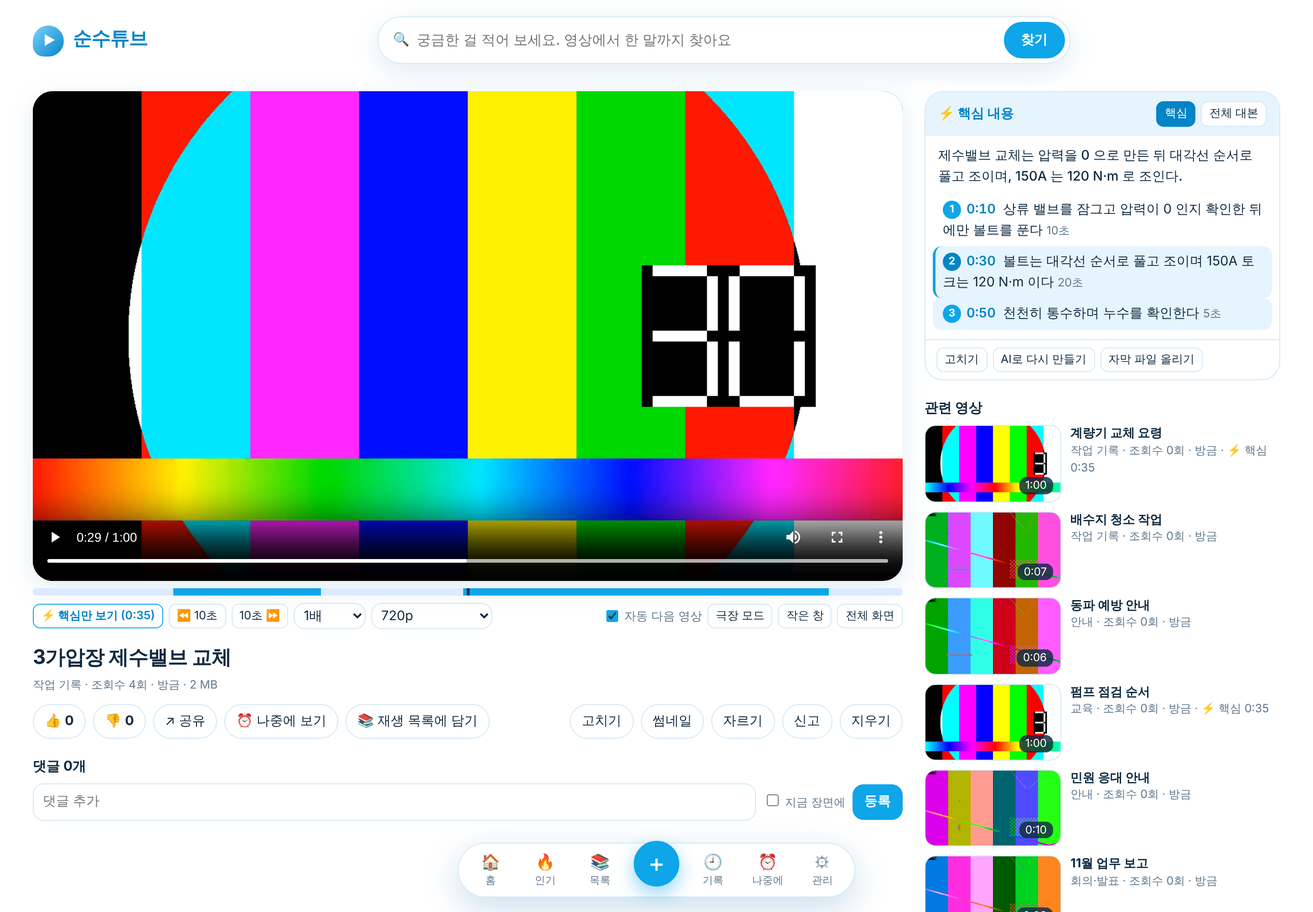
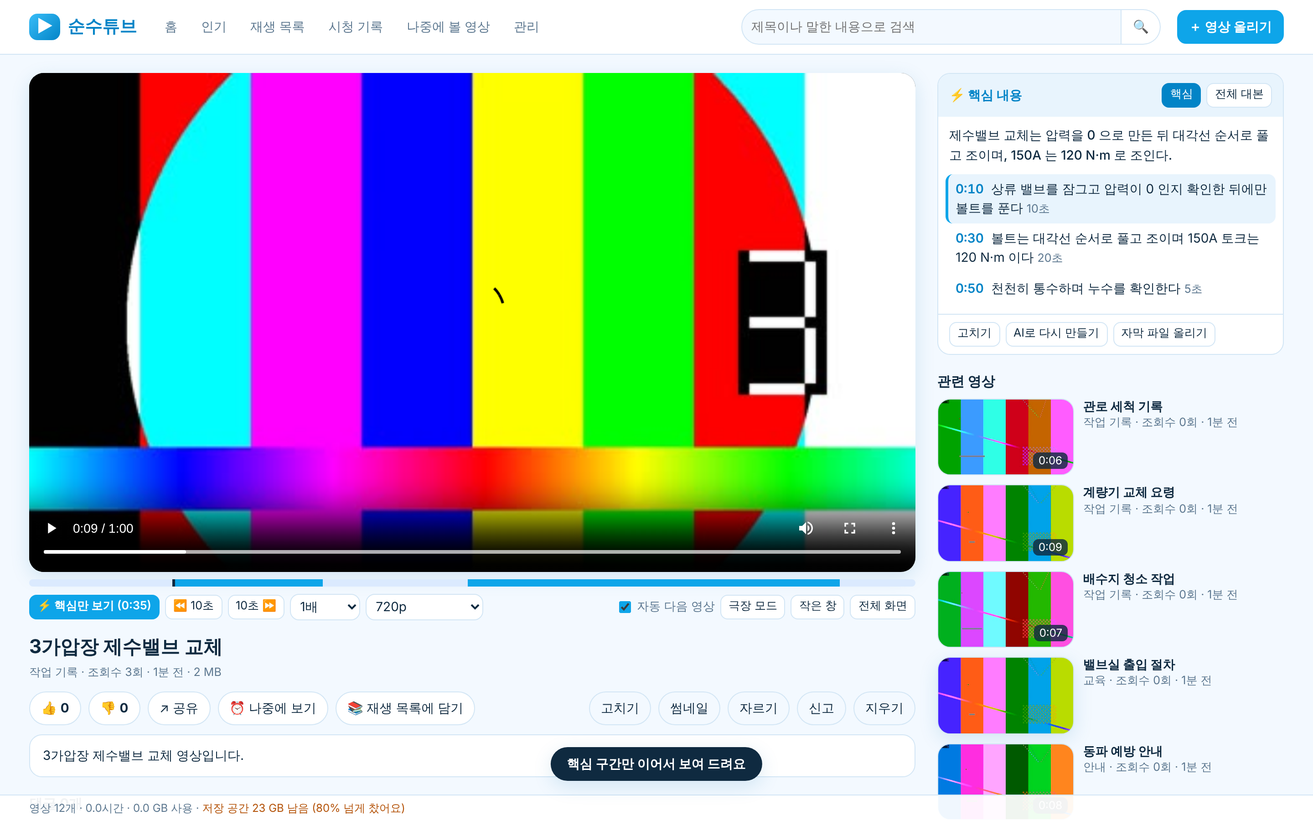
순수TV: 가로 끝까지 채우는 16:9 큰 화면, 자막 같은 설명, 작은 줄 목록 (#5)
* style.css 를 이전 상태(밝은 화면, 큰 배너와 가로 줄)로 되돌림

Claude-Session: https://claude.ai/code/session_01WFWMCxUpiuvt1NbcY57aW6

* 순수TV 로 이름 변경, 홈 큰 화면을 가로 끝까지 16:9 로, 설명은 화면 위 자막처럼, 아래 줄 카드는 작게

Claude-Session: https://claude.ai/code/session_01WFWMCxUpiuvt1NbcY57aW6

---------

diff --git a/module/web/style.css b/module/web/style.css
@@ -1,84 +1,71 @@
-/* 순수튜브: "먼저 읽고, 필요한 장면만 본다". 하늘색과 하얀색. 메뉴는 아래에 떠 있는 둥근 띠. */
-:root{--bg:#f5fbff;--panel:#fff;--soft:#e6f4fe;--line:#d6e8f6;--text:#0f2a40;--muted:#60798f;--accent:#0ea5e9;--accent2:#0284c7;--bad:#dc2626;--shadow:0 8px 28px rgba(14,116,170,.13)}
-*{box-sizing:border-box}body{margin:0;color:var(--text);font:14.5px/1.55 system-ui,"Malgun Gothic",sans-serif;background:var(--bg) radial-gradient(900px 500px at 8% -10%,#d9f0ff 0,transparent 60%) fixed,var(--bg) radial-gradient(700px 500px at 100% 0,#e9f7ff 0,transparent 55%) fixed}
-a{color:inherit;text-decoration:none}button,input,select,textarea{font:inherit;color:inherit}i,em{font-style:normal}
-button,a.btn{background:#fff;border:1px solid var(--line);border-radius:12px;padding:7px 12px;cursor:pointer;display:inline-block}button:hover,a.btn:hover{border-color:var(--accent);color:var(--accent2)}
+/* 순수TV: 하늘색과 하얀색의 밝은 화면. 홈은 큰 배너와 가로 줄 목록. */
+:root{--bg:#f3f9ff;--panel:#fff;--soft:#e8f4fd;--line:#d3e6f5;--text:#0f2a40;--muted:#5d7890;--accent:#0ea5e9;--accent2:#0284c7;--bad:#dc2626;--shadow:0 6px 22px rgba(14,116,170,.14)}
+*{box-sizing:border-box}body{margin:0;background:var(--bg);color:var(--text);font:14px/1.5 system-ui,"Malgun Gothic",sans-serif}
+a{color:inherit;text-decoration:none}button,input,select,textarea{font:inherit;color:inherit}
+button,a.btn{background:#fff;border:1px solid var(--line);border-radius:10px;padding:7px 12px;cursor:pointer;display:inline-block}button:hover,a.btn:hover{border-color:var(--accent);color:var(--accent2)}
 button.primary,a.btn.primary{background:var(--accent);border-color:var(--accent);color:#fff;font-weight:600}button.primary:hover,a.btn.primary:hover{background:var(--accent2);color:#fff}
 button.ghost{background:transparent}button:disabled{opacity:.5;cursor:default}
 button.on{background:var(--accent2);color:#fff;border-color:var(--accent2)}button.small{padding:3px 8px;font-size:12.5px;border-radius:8px}
-input,select,textarea{background:#fff;border:1px solid var(--line);border-radius:12px;padding:8px 10px;width:100%}input:focus,select:focus,textarea:focus{outline:2px solid #bae6fd;border-color:var(--accent)}input[type=checkbox]{width:auto;accent-color:var(--accent)}
-mark{background:#fde68a;color:inherit;border-radius:3px;padding:0 1px}
+input,select,textarea{background:#fff;border:1px solid var(--line);border-radius:10px;padding:8px 10px;width:100%}input:focus,select:focus,textarea:focus{outline:2px solid #bae6fd;border-color:var(--accent)}input[type=checkbox]{width:auto;accent-color:var(--accent)}
 
-/* 위: 로고와 큰 검색창 */
-.top{display:flex;gap:10px 22px;align-items:center;flex-wrap:wrap;padding:18px 36px 6px;max-width:1500px;margin:0 auto}
-.logo{font-size:21px;font-weight:800;white-space:nowrap;color:var(--accent2);letter-spacing:-.5px}.logo .mark{display:inline-grid;place-items:center;width:34px;height:34px;background:linear-gradient(135deg,#7dd3fc,#0284c7);color:#fff;border-radius:50% 50% 50% 12px;margin-right:6px;font-size:14px;padding-left:2px}
-.search{flex:1;display:flex;align-items:center;gap:8px;min-width:240px;max-width:760px;margin:0 auto;background:#fff;border:1px solid var(--line);border-radius:28px;padding:5px 5px 5px 16px;box-shadow:var(--shadow)}
-.search input{border:0;padding:8px 0;font-size:15.5px;background:transparent}.search input:focus{outline:0}.search:focus-within{border-color:var(--accent)}.search button{border-radius:22px;padding:8px 18px;white-space:nowrap;flex:none}
-main{padding:18px 36px 120px;max-width:1500px;margin:0 auto}@media(max-width:800px){.top{padding:12px 14px 4px}main{padding:12px 14px 120px}}
-h1.page{font-size:22px;margin:6px 0 14px}h1.page .meta{font-weight:400;margin-left:8px}.sub{color:var(--muted);margin:-8px 0 14px}.meta{color:var(--muted);font-size:12.5px}
-.chips{display:flex;gap:8px;flex-wrap:wrap;margin:6px 0 18px;align-items:center}.chips button{border-radius:18px;padding:5px 14px}.chips button[aria-pressed=true]{background:var(--text);color:#fff;border-color:var(--text)}.chips .sp{flex:1}.chips select{width:auto;border-radius:18px;padding:5px 10px}
-.seg{display:inline-flex;border:1px solid var(--line);border-radius:18px;overflow:hidden;background:#fff}.seg button{border:0;border-radius:0!important;padding:5px 12px}
+/* 위쪽 줄 */
+.top{position:sticky;top:0;z-index:6;display:flex;gap:8px 18px;align-items:center;flex-wrap:wrap;padding:10px 32px;background:rgba(255,255,255,.94);backdrop-filter:blur(8px);border-bottom:1px solid var(--line)}
+.logo{font-size:19px;font-weight:800;white-space:nowrap;color:var(--accent2)}.logo .mark{display:inline-block;background:linear-gradient(135deg,#38bdf8,#0284c7);color:#fff;border-radius:9px;padding:0 8px;margin-right:4px}
+.nav{display:flex;gap:2px;overflow-x:auto;scrollbar-width:none}.nav a{padding:7px 12px;border-radius:18px;white-space:nowrap;color:var(--muted);font-weight:500}.nav a:hover{background:var(--soft);color:var(--text)}.nav a.on{background:var(--soft);color:var(--accent2);font-weight:700}
+.search{flex:1;display:flex;min-width:200px;max-width:460px;margin-left:auto}.search input{border-radius:20px 0 0 20px;background:var(--bg)}.search button{border-radius:0 20px 20px 0;border-left:0}
+@media(max-width:900px){.top{padding:8px 14px}.nav{order:5;width:100%}.search{min-width:120px}}
+main{padding:20px 32px 70px;max-width:1800px;margin:0 auto}@media(max-width:900px){main{padding:14px 14px 70px}}
+h1.page{font-size:22px;margin:0 0 14px}.sub{color:var(--muted);margin:-8px 0 14px}.meta{color:var(--muted);font-size:12.5px}
+.chips{display:flex;gap:8px;flex-wrap:wrap;margin-bottom:16px;align-items:center}.chips button{border-radius:18px;padding:5px 14px}.chips button[aria-pressed=true]{background:var(--accent2);color:#fff;border-color:var(--accent2)}.chips .sp{flex:1}.chips select{width:auto}
 
-/* 아래에 떠 있는 메뉴 */
-.dock{position:fixed;left:50%;bottom:16px;transform:translateX(-50%);z-index:8;display:flex;gap:2px;align-items:center;padding:6px;background:rgba(255,255,255,.92);backdrop-filter:blur(10px);border:1px solid var(--line);border-radius:30px;box-shadow:0 12px 36px rgba(14,116,170,.22);max-width:calc(100vw - 16px)}
-.dock a{display:flex;flex-direction:column;align-items:center;min-width:58px;padding:5px 8px;border-radius:22px;font-size:11.5px;color:var(--muted);line-height:1.25}.dock a i{font-size:17px}.dock a:hover{background:var(--soft);color:var(--text)}.dock a.on{background:var(--soft);color:var(--accent2);font-weight:700}
-.dock #uploadBtn{width:50px;height:50px;border-radius:50%;font-size:24px;padding:0;margin:-14px 6px 0;box-shadow:0 8px 20px rgba(14,165,233,.45);line-height:1}
-@media(max-width:480px){.dock a{min-width:44px;padding:5px 3px}}
-body.theater .dock{opacity:.35}body.theater .dock:hover{opacity:1}
+/* 홈: 가로 끝까지 채우는 16:9 큰 화면. 설명은 화면 오른쪽 위에 자막처럼 */
+.hero{position:relative;width:100vw;margin:-20px 0 14px calc(50% - 50vw);aspect-ratio:16/9;background:#04121d;overflow:hidden}
+.hero .scr{position:absolute;inset:0;background:center/cover no-repeat;display:block}.hero video{width:100%;height:100%;max-height:none;object-fit:cover;border-radius:0;box-shadow:none;background:transparent}
+.hero:after{content:"";position:absolute;inset:0;pointer-events:none;background:linear-gradient(270deg,rgba(2,18,30,.72) 0,rgba(2,18,30,.35) 34%,transparent 62%),linear-gradient(0deg,rgba(2,18,30,.45) 0,transparent 30%)}
+.hero .cap{position:absolute;z-index:2;right:4vw;bottom:7%;width:min(40vw,620px);text-align:right;color:#fff;text-shadow:0 2px 4px rgba(0,0,0,.85),0 0 18px rgba(0,0,0,.6);pointer-events:none}
+.hero .cap>*{pointer-events:auto}.hero .kicker{display:inline-block;color:#7dd3fc;font-size:clamp(11px,1vw,14px);font-weight:700;letter-spacing:.5px}
+.hero h1{font-size:clamp(20px,3.4vw,54px);line-height:1.2;margin:.2em 0 .25em;letter-spacing:-1px}.hero p{font-size:clamp(12.5px,1.25vw,19px);line-height:1.55;margin:0 0 .4em;display:-webkit-box;-webkit-line-clamp:4;-webkit-box-orient:vertical;overflow:hidden}
+.hero .info{font-size:clamp(11px,.9vw,13.5px);opacity:.85}.hero .btns{display:flex;gap:10px;flex-wrap:wrap;justify-content:flex-end;margin-top:1.1em;text-shadow:none}
+.hero .btn{padding:.6em 1.4em;border-radius:26px;font-size:clamp(12.5px,1.05vw,16px);font-weight:600;border-color:transparent;color:var(--text)}.hero .btn.primary{color:#fff}.hero .btn.on{background:var(--accent2);color:#fff}
+@media(max-width:700px){.hero .cap{width:62vw;right:3vw;bottom:5%}.hero p,.hero .info{display:none}.hero .btn:not(.primary){display:none}}
+@media(max-width:900px){.hero{margin-top:-14px}}
 
-/* 홈: 오늘의 영상 */
-.spot{display:grid;grid-template-columns:minmax(0,52%) minmax(0,1fr);gap:30px;align-items:center;background:var(--panel);border:1px solid var(--line);border-radius:28px;padding:18px;margin:8px 0 18px;box-shadow:var(--shadow)}
-.spot .thumb{border-radius:20px;border:0}.spot .play{width:66px;height:66px;border-radius:50%;background:rgba(255,255,255,.93);color:var(--accent2);font-size:25px;display:grid;place-items:center;padding-left:5px;box-shadow:var(--shadow);transition:transform .15s}.spot .thumb:hover .play{transform:scale(1.1)}
-.spot .txt{padding:6px 14px 6px 0}.kicker{display:inline-block;background:var(--soft);color:var(--accent2);border-radius:14px;padding:2px 12px;font-size:12.5px;font-weight:700}
-.spot h1{font-size:clamp(21px,2.4vw,31px);line-height:1.25;margin:10px 0 6px;letter-spacing:-.5px}.spot .sum{font-size:15px;margin:0 0 10px;color:#33526b}
-.btns{display:flex;gap:8px;flex-wrap:wrap;margin-top:14px}.btns .btn{padding:9px 18px;border-radius:22px;font-weight:600}
-@media(max-width:900px){.spot{grid-template-columns:1fr;gap:12px}.spot .txt{padding:0 6px 6px}}
-/* 핵심 문장(번호 + 내용 + 시간): 누르면 그 장면부터 */
-.step{display:grid;grid-template-columns:22px 1fr auto;gap:8px;align-items:start;padding:5px 6px;border-radius:10px;font-size:13.5px;line-height:1.45}.step:hover{background:var(--soft)}
-.step i,.pt i{display:inline-grid;place-items:center;width:20px;height:20px;border-radius:50%;background:var(--accent);color:#fff;font-size:11.5px;font-weight:700;margin-top:1px}
-.step em{color:var(--accent2);font-size:12px;font-weight:600;font-variant-numeric:tabular-nums}.flow{position:relative}.flow:before{content:"";position:absolute;left:15.5px;top:16px;bottom:16px;width:1.5px;background:#bfe3f8}.flow .step{position:relative}
-/* 이어 보기 */
-.cont{display:flex;gap:8px;align-items:center;overflow-x:auto;padding:2px 2px 10px;scrollbar-width:none}.cont b{white-space:nowrap;margin-right:4px}
-.cont a{display:flex;gap:8px;align-items:center;white-space:nowrap;background:#fff;border:1px solid var(--line);border-radius:20px;padding:5px 12px 5px 6px}.cont a:hover{border-color:var(--accent)}.cont em{color:var(--muted);font-size:12px}
-.ring{width:22px;height:22px;border-radius:50%;background:conic-gradient(var(--accent) calc(var(--p)*1%),#dbeafe 0);-webkit-mask:radial-gradient(circle,transparent 6px,#000 7px);mask:radial-gradient(circle,transparent 6px,#000 7px)}
+/* 홈: 가로 줄(작게) */
+.shelf{margin-bottom:2px}.shelf h2{font-size:15px;margin:0}.shelf h2 a{cursor:pointer}.shelf h2 span{font-size:12px;font-weight:500;color:var(--accent2);opacity:0;transition:opacity .15s;margin-left:6px}.shelf:hover h2 span{opacity:1}
+.rail{position:relative}.rowlist{display:flex;gap:10px;overflow-x:auto;scroll-snap-type:x proximity;padding:8px 4px 12px;scrollbar-width:none}.rowlist::-webkit-scrollbar,.nav::-webkit-scrollbar{display:none}
+.rowlist .card{flex:0 0 clamp(132px,11vw,176px);min-width:0;scroll-snap-align:start}.rowlist .card h3{font-size:12.5px;margin:5px 0 0;-webkit-line-clamp:1}.rowlist .card .meta{font-size:11px;white-space:nowrap;overflow:hidden;text-overflow:ellipsis}.rowlist .thumb{border-radius:9px}.rowlist .thumb .dur{font-size:10.5px;right:4px;bottom:4px;padding:0 4px}
+.arrow{position:absolute;top:calc(50% - 34px);z-index:3;width:34px;height:34px;border-radius:50%;padding:0;font-size:19px;line-height:1;background:#fff;box-shadow:var(--shadow);opacity:0;transition:opacity .15s}.rail:hover .arrow{opacity:1}.arrow.l{left:-12px}.arrow.r{right:-12px}.arrow[hidden]{display:none}
+.hitline{font-size:12.5px;color:var(--muted);margin-top:3px;display:-webkit-box;-webkit-line-clamp:2;-webkit-box-orient:vertical;overflow:hidden}.hitline b{color:var(--accent2)}
 
-/* 읽는 카드: 높이가 달라도 자연스럽게 흐르는 단 */
-.flowgrid{columns:330px;column-gap:18px}
-.rc{break-inside:avoid;background:var(--panel);border:1px solid var(--line);border-radius:22px;overflow:hidden;margin:0 0 18px;transition:box-shadow .18s,transform .18s}.rc:hover{box-shadow:var(--shadow);transform:translateY(-3px)}
-.rc .thumb{border-radius:0;border:0}.rcbody{padding:12px 14px 12px}.rc h3{margin:0 0 4px;font-size:16px;line-height:1.35;letter-spacing:-.2px}.rc h3:hover{color:var(--accent2)}
-.rc .sum{margin:0 0 8px;color:#3b5870;font-size:13.5px;display:-webkit-box;-webkit-line-clamp:3;-webkit-box-orient:vertical;overflow:hidden}.rc .meta{margin-top:8px}.rc .step{margin:0 -6px}
-.corelink{color:var(--accent2);font-weight:700}.corelink:hover{text-decoration:underline}
-.mini{position:relative;height:5px;background:#e3f1fb}.mini b{position:absolute;top:0;bottom:0;background:var(--accent)}
-.hits{background:var(--bg);border-radius:12px;padding:8px 10px;font-size:13px}.hits b{display:block;font-size:12px;color:var(--muted);margin-bottom:2px}.hit{display:grid;grid-template-columns:auto 1fr;gap:8px;padding:3px 0}.hit:hover span{color:var(--accent2)}.hit em{color:var(--accent2);font-weight:600;font-variant-numeric:tabular-nums}
-
-/* 그림 보기 · 작은 카드 */
+/* 카드 */
 .grid{display:grid;grid-template-columns:repeat(auto-fill,minmax(240px,1fr));gap:22px 16px}
-.card{display:block;position:relative;transition:transform .18s}.grid .card:hover{transform:translateY(-3px)}
-.thumb{position:relative;aspect-ratio:16/9;background:#d6ebf9 center/cover no-repeat;border-radius:16px;overflow:hidden;border:1px solid var(--line);display:grid;place-items:center;color:var(--muted)}
-.thumb .dur,.thumb .badge{position:absolute;right:8px;bottom:8px;background:rgba(15,42,64,.82);border-radius:8px;padding:0 7px;font-size:12px;color:#fff}.thumb .badge{left:8px;right:auto;top:8px;bottom:auto;background:var(--accent2)}.thumb .state{font-size:13px;padding:0 10px;text-align:center}
+.card{display:block;position:relative;transition:transform .18s}.rowlist .card:hover,.grid .card:hover{transform:translateY(-4px) scale(1.04);z-index:2}
+.thumb{position:relative;aspect-ratio:16/9;background:#d6ebf9 center/cover no-repeat;border-radius:14px;overflow:hidden;border:1px solid var(--line);display:grid;place-items:center;color:var(--muted);transition:box-shadow .18s}.card:hover .thumb{box-shadow:var(--shadow)}
+.thumb .dur,.thumb .badge{position:absolute;right:6px;bottom:6px;background:rgba(15,42,64,.82);border-radius:6px;padding:0 6px;font-size:12px;color:#fff}.thumb .badge{left:6px;right:auto;top:6px;bottom:auto;background:var(--accent2)}.thumb .state{font-size:13px;padding:0 10px;text-align:center}
 .thumb .prog{position:absolute;left:0;bottom:0;height:4px;background:var(--accent)}
+.thumb .sumov{position:absolute;inset:auto 0 0 0;padding:26px 10px 9px;background:linear-gradient(transparent,rgba(8,47,73,.9));color:#fff;font-size:12.5px;line-height:1.4;opacity:0;transition:opacity .18s;display:-webkit-box;-webkit-line-clamp:3;-webkit-box-orient:vertical;overflow:hidden}
+.card:hover .sumov{opacity:1}.card:hover .sumov~.prog,.card:hover .thumb:has(.sumov) .dur{opacity:0}.side .sumov{display:none}
 .card h3{margin:8px 0 2px;font-size:15px;line-height:1.35;display:-webkit-box;-webkit-line-clamp:2;-webkit-box-orient:vertical;overflow:hidden}
 .card .x{position:absolute;right:6px;top:6px;z-index:2;padding:0 7px;background:rgba(255,255,255,.92);border:0;border-radius:8px}
 .empty{text-align:center;color:var(--muted);padding:70px 0}.empty b{display:block;font-size:17px;color:var(--text);margin-bottom:6px}
 
 /* 보기 화면 */
-.watch{display:grid;grid-template-columns:minmax(0,1fr) 390px;gap:24px;margin-top:6px}@media(max-width:1100px){.watch{grid-template-columns:1fr}}body.theater .watch{grid-template-columns:1fr}
-video{width:100%;max-height:72vh;background:#04121d;border-radius:22px;display:block;box-shadow:var(--shadow)}body.theater video{max-height:84vh}
+.watch{display:grid;grid-template-columns:minmax(0,1fr) 380px;gap:24px}@media(max-width:1100px){.watch{grid-template-columns:1fr}}body.theater .watch{grid-template-columns:1fr}
+video{width:100%;max-height:72vh;background:#04121d;border-radius:16px;display:block;box-shadow:var(--shadow)}body.theater video{max-height:84vh}
 .pbar{display:flex;gap:6px;align-items:center;flex-wrap:wrap;margin-top:8px}.pbar select{width:auto;padding:4px 6px}.pbar .sp{flex:1}.pbar label{color:var(--muted);font-size:13px;display:flex;gap:4px;align-items:center}
-.watch h1{font-size:22px;margin:14px 0 4px;letter-spacing:-.4px}.actions{display:flex;gap:8px;align-items:center;flex-wrap:wrap;margin:10px 0}.actions .sp{flex:1}.actions button{border-radius:20px}
-.desc{background:var(--panel);border:1px solid var(--line);border-radius:16px;padding:12px 14px;white-space:pre-wrap;margin:10px 0}.tag{display:inline-block;color:var(--accent2);margin-right:8px}
+.watch h1{font-size:21px;margin:14px 0 4px}.actions{display:flex;gap:8px;align-items:center;flex-wrap:wrap;margin:10px 0}.actions .sp{flex:1}.actions button{border-radius:20px}
+.desc{background:var(--panel);border:1px solid var(--line);border-radius:14px;padding:12px 14px;white-space:pre-wrap;margin:10px 0}.tag{display:inline-block;color:var(--accent2);margin-right:8px}
 .comments h2,.side h2{font-size:15px;margin:18px 0 8px}.cform{display:flex;gap:8px;align-items:center}.cform input:not([type]){flex:1}
 .comment{padding:10px 0;border-bottom:1px solid var(--line)}.comment .when{color:var(--muted);font-size:12px}.comment .at{color:var(--accent2);cursor:pointer;margin-right:6px;font-weight:600}.comment .ops{margin-top:4px;display:flex;gap:6px}.comment.reply{margin-left:28px;border-bottom:0;padding:6px 0}
-.side .card{display:grid;grid-template-columns:150px 1fr;gap:10px;margin-bottom:10px}.side .card h3{margin:0;font-size:13.5px}.side .thumb{border-radius:12px}
-.plbox,.corebox{background:var(--panel);border:1px solid var(--line);border-radius:20px;margin-bottom:14px;overflow:hidden}.plbox header{padding:10px 14px;background:var(--soft)}.plbox .items{max-height:340px;overflow:auto;padding:6px}.plbox .card.cur{background:var(--soft);border-radius:10px}
+.side .card{display:grid;grid-template-columns:150px 1fr;gap:10px;margin-bottom:10px}.side .card h3{margin:0;font-size:13.5px}.side .card:hover{transform:none}
+.plbox,.corebox{background:var(--panel);border:1px solid var(--line);border-radius:14px;margin-bottom:14px;overflow:hidden}.plbox header{padding:10px 12px;background:var(--soft)}.plbox .items{max-height:340px;overflow:auto;padding:6px}.plbox .card.cur{background:var(--soft);border-radius:10px}
 .plrow{display:grid;grid-template-columns:28px 160px 1fr auto;gap:12px;align-items:center;padding:8px;border-bottom:1px solid var(--line)}.plrow .n{color:var(--muted);text-align:center}
 
 /* 핵심 보기 */
-.corebox:empty{display:none}.corebox header{display:flex;gap:6px;align-items:center;padding:10px 14px;background:var(--soft)}.corebox header b{flex:1;color:var(--accent2)}
-.corebox .body{padding:10px 8px;max-height:440px;overflow:auto;position:relative}.corebox .body>p,.corebox .body>label{margin:0 6px 8px;display:block}.corebox .sum{line-height:1.6;font-weight:500}
+.corebox:empty{display:none}.corebox header{display:flex;gap:6px;align-items:center;padding:10px 12px;background:var(--soft)}.corebox header b{flex:1;color:var(--accent2)}
+.corebox .body{padding:10px 8px;max-height:420px;overflow:auto;position:relative}.corebox .body>p,.corebox .body>label{margin:0 4px 8px;display:block}.corebox .sum{line-height:1.6;font-weight:500}
 .corebox footer{display:flex;gap:6px;flex-wrap:wrap;align-items:center;padding:8px 12px;border-top:1px solid var(--line)}.corebox footer:empty{display:none}.corebox footer .sp{flex:1}
-.pt,.ln{display:block;padding:6px 8px;border-radius:10px;cursor:pointer;border-left:3px solid transparent}.pt:hover,.ln:hover{background:var(--soft)}.pt.cur,.ln.cur{background:var(--soft);border-left-color:var(--accent)}
-.pt i{margin-right:6px;vertical-align:1px}.pt.cur i{background:var(--accent2)}
+.pt,.ln{display:block;padding:6px 8px;border-radius:8px;cursor:pointer;border-left:3px solid transparent}.pt:hover,.ln:hover{background:var(--soft)}.pt.cur,.ln.cur{background:var(--soft);border-left-color:var(--accent)}
 .pt .at,.ln .at{color:var(--accent2);margin-right:8px;font-weight:600;font-variant-numeric:tabular-nums}.ln{padding:3px 8px;color:var(--muted);font-size:13px}.ln.core{color:var(--text)}.ln[hidden]{display:none}
 .filebtn{display:inline-block;border:1px solid var(--line);border-radius:8px;padding:3px 8px;font-size:12.5px;cursor:pointer;background:#fff}.filebtn:hover{border-color:var(--accent);color:var(--accent2)}
 .strip{position:relative;height:8px;background:#dbeafe;border-radius:4px;margin-top:8px;cursor:pointer;overflow:hidden}.strip[hidden]{display:none}.strip b{position:absolute;top:0;bottom:0;background:var(--accent)}.strip i{position:absolute;top:0;bottom:0;width:3px;background:var(--text)}
@@ -86,16 +73,16 @@ video{width:100%;max-height:72vh;background:#04121d;border-radius:22px;display:b
 #coreBtn{border-color:var(--accent);color:var(--accent2);font-weight:600}#coreBtn.on{background:var(--accent);border-color:var(--accent);color:#fff}
 
 /* 창 · 올리기 */
-dialog{background:var(--panel);color:var(--text);border:1px solid var(--line);border-radius:22px;padding:22px;width:min(560px,94vw);max-height:90vh;overflow:auto;box-shadow:0 20px 60px rgba(15,42,64,.25)}dialog::backdrop{background:rgba(15,42,64,.35)}
+dialog{background:var(--panel);color:var(--text);border:1px solid var(--line);border-radius:18px;padding:22px;width:min(560px,94vw);max-height:90vh;overflow:auto;box-shadow:0 20px 60px rgba(15,42,64,.25)}dialog::backdrop{background:rgba(15,42,64,.35)}
 dialog h2{margin:0 0 12px}dialog label{display:block;margin-bottom:10px;color:var(--muted);font-size:13px}dialog label input,dialog label select,dialog label textarea{margin-top:4px;color:var(--text)}
-.drop{border:2px dashed #a5d3ee;border-radius:16px;padding:18px;text-align:center;cursor:pointer;background:var(--bg)}.drop.over{border-color:var(--accent);background:var(--soft)}.drop b{display:block;color:var(--text)}
+.drop{border:2px dashed #a5d3ee;border-radius:14px;padding:18px;text-align:center;cursor:pointer;background:var(--bg)}.drop.over{border-color:var(--accent);background:var(--soft)}.drop b{display:block;color:var(--text)}
 .uprow{display:grid;grid-template-columns:1fr auto;gap:6px 8px;align-items:center;margin:8px 0}.uprow .bar{grid-column:1/3;height:6px;background:#dbeafe;border-radius:3px;overflow:hidden}.uprow .bar div{height:100%;width:0;background:var(--accent);transition:width .2s}.uprow .st{font-size:12px;color:var(--muted);white-space:nowrap}.uprow .st.bad{color:var(--bad)}.uprow .st.ok{color:#16a34a}
 .row{display:flex;gap:8px;justify-content:flex-end;align-items:center;flex-wrap:wrap}.row .sp{flex:1}.hint{color:var(--muted);font-size:12px;margin:10px 0 0}.msg{min-height:1.4em;margin:6px 0}.msg.bad{color:var(--bad)}
 .pick{display:flex;gap:8px;align-items:center;padding:6px 0}.pick input{width:auto}
 
 /* 관리 */
 table.adm{width:100%;border-collapse:collapse}table.adm th,table.adm td{padding:7px 8px;border-bottom:1px solid var(--line);text-align:left;vertical-align:middle}table.adm th{color:var(--muted);font-weight:500;font-size:12.5px}table.adm td.num{text-align:right;white-space:nowrap}table.adm img{width:96px;aspect-ratio:16/9;object-fit:cover;border-radius:8px;display:block;background:#d6ebf9}
-.box{background:var(--panel);border:1px solid var(--line);border-radius:20px;padding:16px;margin-bottom:16px}.box h2{font-size:15px;margin:0 0 10px}.catrow{display:flex;gap:6px;margin-bottom:6px}.meter{height:10px;background:#dbeafe;border-radius:5px;overflow:hidden;margin:6px 0}.meter div{height:100%;background:var(--accent)}.meter div.warn{background:#f59e0b}
+.box{background:var(--panel);border:1px solid var(--line);border-radius:16px;padding:16px;margin-bottom:16px}.box h2{font-size:15px;margin:0 0 10px}.catrow{display:flex;gap:6px;margin-bottom:6px}.meter{height:10px;background:#dbeafe;border-radius:5px;overflow:hidden;margin:6px 0}.meter div{height:100%;background:var(--accent)}.meter div.warn{background:#f59e0b}
 
-#toast{position:fixed;left:50%;bottom:96px;transform:translateX(-50%);background:var(--text);color:#fff;padding:8px 18px;border-radius:20px;z-index:20;font-weight:600;box-shadow:var(--shadow)}
-.foot{text-align:center;padding:0 16px 96px;margin-top:-80px;color:var(--muted);font-size:12px}.foot .warn{color:#b45309}
+#toast{position:fixed;left:50%;bottom:44px;transform:translateX(-50%);background:var(--text);color:#fff;padding:8px 18px;border-radius:20px;z-index:20;font-weight:600;box-shadow:var(--shadow)}
+.foot{position:fixed;left:0;right:0;bottom:0;padding:5px 32px;background:rgba(255,255,255,.94);border-top:1px solid var(--line);color:var(--muted);font-size:12px;z-index:6}.foot .warn{color:#b45309}

diff --git a/module/web/app.js b/module/web/app.js
@@ -1,4 +1,4 @@
-/* 순수튜브 화면. 경로는 모두 상대 경로(런처의 /module/sunsutube/ 아래에서도 동작). 로그인이 없어 시청 기록·나중에 볼 영상·좋아요 표시는 이 브라우저에 기억한다. */
+/* 순수TV 화면. 경로는 모두 상대 경로(런처의 /module/sunsutube/ 아래에서도 동작). 로그인이 없어 시청 기록·나중에 볼 영상·좋아요 표시는 이 브라우저에 기억한다. */
 const $ = (s, el = document) => el.querySelector(s), $$ = (s, el = document) => [...el.querySelectorAll(s)];
 const esc = (s) => String(s ?? '').replace(/[&<>"']/g, (c) => ({ '&': '&amp;', '<': '&lt;', '>': '&gt;', '"': '&quot;', "'": '&#39;' }[c]));
 const api = async (url, opt) => { const r = await fetch(url, opt); const j = await r.json().catch(() => ({ ok: false, message: r.statusText })); if (!r.ok || j.ok === false) throw Object.assign(new Error(j.message || '요청 실패'), { status: r.status, body: j }); return j; };
@@ -18,59 +18,51 @@ function card(v, opt = {}) {
   const pos = ls.get('pos', {})[v.id], prog = pos && v.duration ? `<span class="prog" style="width:${Math.min(100, pos / v.duration * 100).toFixed(0)}%"></span>` : '';
   const badge = v.visibility === 'unlisted' ? '<span class="badge">링크로만</span>' : v.hidden ? '<span class="badge">숨김</span>' : '';
   return `<a class="card ${opt.cur ? 'cur' : ''}" href="#/v/${v.id}${opt.list ? '?list=' + opt.list : ''}">${opt.remove ? `<button class="x" data-remove="${v.id}" title="${opt.remove}">✕</button>` : ''}
-    <div class="thumb" ${bg}>${st}${badge}${v.duration ? `<span class="dur">${dur(v.duration)}</span>` : ''}${prog}</div>
-    <div><h3>${esc(v.title)}</h3><div class="meta">${esc(v.category)} · 조회수 ${v.views}회 · ${ago(v.created)}${v.coreSec ? ` · ⚡ 핵심 ${dur(v.coreSec)}` : ''}</div></div></a>`;
+    <div class="thumb" ${bg}>${st}${badge}${v.duration ? `<span class="dur">${dur(v.duration)}</span>` : ''}${v.summary ? `<span class="sumov">${esc(v.summary)}</span>` : ''}${prog}</div>
+    <div><h3>${esc(v.title)}</h3><div class="meta">${esc(v.category)} · 조회수 ${v.views}회 · ${ago(v.created)}${v.coreSec ? ` · ⚡ 핵심 ${dur(v.coreSec)}` : ''}</div>${v.hits && v.hits[0] ? `<div class="hitline"><b>${dur(v.hits[0].s)}</b> “${esc(v.hits[0].t)}”</div>` : ''}</div></a>`;
 }
 const grid = (videos, emptyTitle, emptySub, opt) => videos.length ? `<div class="grid">${videos.map((v) => card(v, opt)).join('')}</div>` : `<div class="empty"><b>${emptyTitle}</b>${emptySub || ''}</div>`;
 
-/* ---------- 홈 · 인기 · 태그: 먼저 읽고, 필요한 장면만 본다 ---------- */
-const hl = (text, words) => { let out = esc(text); for (const w of words || []) if (w) out = out.replace(new RegExp(esc(w).replace(/[.*+?^${}()|[\]\\]/g, '\\$&'), 'gi'), (m) => `<mark>${m}</mark>`); return out; };
-const mini = (v) => v.pts && v.pts.length && v.duration ? `<div class="mini" title="파란 부분이 핵심 구간">${v.pts.map((p) => `<b style="left:${p.s / v.duration * 100}%;width:${(p.e - p.s) / v.duration * 100}%"></b>`).join('')}</div>` : '';
-const steps = (v, max) => (v.pts || []).slice(0, max).map((p, i) => `<a class="step" href="#/v/${v.id}?t=${Math.floor(p.s)}"><i>${i + 1}</i><span>${esc(p.t) || '핵심 구간'}</span><em>${dur(p.s)}</em></a>`).join('');
-// 읽는 카드: 썸네일 + 핵심 띠 + 요약 + 핵심 문장(누르면 그 장면부터)
-function rcard(v, words) {
-  const bg = v.thumb ? `style="background-image:url('${thumbUrl(v)}')"` : '';
-  const st = v.status === 'processing' ? '<span class="state">⏳ 변환 중…</span>' : v.status === 'failed' ? '<span class="state">⚠ 변환 실패</span>' : (v.thumb ? '' : '<span class="state">▶</span>');
-  const pos = ls.get('pos', {})[v.id], prog = pos && v.duration ? `<span class="prog" style="width:${Math.min(100, pos / v.duration * 100).toFixed(0)}%"></span>` : '';
-  const hits = (v.hits || []).map((h) => `<a class="hit" href="#/v/${v.id}?t=${Math.floor(h.s)}"><em>${dur(h.s)}</em><span>“${hl(h.t, words)}”</span></a>`).join('');
-  const text = v.summary || v.desc;
-  return `<article class="rc"><a class="thumb" href="#/v/${v.id}" ${bg}>${st}${v.duration ? `<span class="dur">${dur(v.duration)}</span>` : ''}${prog}</a>${mini(v)}
-    <div class="rcbody"><a href="#/v/${v.id}"><h3>${hl(v.title, words)}</h3></a>${text ? `<p class="sum">${hl(text, words)}</p>` : ''}
-    ${hits ? `<div class="hits"><b>말한 장면</b>${hits}</div>` : steps(v, 3)}
-    <div class="meta">${esc(v.category)} · 조회수 ${v.views}회 · ${ago(v.created)}${v.coreSec ? ` · <a class="corelink" href="#/v/${v.id}?core=1">⚡ 핵심만 ${dur(v.coreSec)}</a>` : ''}</div></div></article>`;
+/* ---------- 홈 · 인기 · 태그 ---------- */
+const shelf = (title, videos, more) => videos.length ? `<section class="shelf"><h2>${more ? `<a ${more}>${esc(title)} <span>모두 보기 ›</span></a>` : esc(title)}</h2>
+  <div class="rail"><button class="arrow l" title="앞으로">‹</button><div class="rowlist">${videos.map((v) => card(v)).join('')}</div><button class="arrow r" title="뒤로">›</button></div></section>` : '';
+async function shelves() {
+  const { videos } = await api('api/videos?sort=new');
+  if (!videos.length) { $('#view').innerHTML = '<div class="empty"><b>아직 영상이 없어요</b>첫 영상을 올려 보세요.</div>'; return; }
+  const ready = videos.filter((v) => v.status === 'ready'), pos = ls.get('pos', {});
+  const pop = ready.filter((v) => v.weekViews > 0).sort((a, b) => b.weekViews - a.weekViews || b.views - a.views).slice(0, 20), h = pop[0] || ready[0];
+  const later = h && ls.get('later', []).includes(h.id);
+  // 큰 화면: 가로 끝까지 16:9. 영상이 소리 없이 흐르고, 설명은 화면 오른쪽 위에 자막처럼 얹는다.
+  const hero = h ? `<section class="hero"><a class="scr" href="#/v/${h.id}" ${h.thumb ? `style="background-image:url('${thumbUrl(h)}')"` : ''}>
+      <video id="heroVid" muted loop playsinline preload="metadata" src="media/${h.id}${h.low ? '_360' : ''}.mp4#t=${h.pts && h.pts[0] ? Math.floor(h.pts[0].s) : 0}"></video></a>
+    <div class="cap"><span class="kicker">${pop[0] ? '이번 주 가장 많이 본 영상' : '새로 올라온 영상'}</span><h1>${esc(h.title)}</h1>
+      ${h.summary || h.desc ? `<p>${esc(h.summary || h.desc)}</p>` : ''}<div class="info">${esc(h.category)} · 조회수 ${h.views}회 · ${ago(h.created)} · ${dur(h.duration)}</div>
+      <div class="btns"><a class="btn primary" href="#/v/${h.id}">▶ 재생</a>${h.coreSec ? `<a class="btn" href="#/v/${h.id}?core=1">⚡ 핵심만 보기 (${dur(h.coreSec)})</a>` : ''}<button id="heroLater" class="btn ${later ? 'on' : ''}">${later ? '✓ 담김' : '＋ 나중에 보기'}</button></div></div></section>` : '';
+  $('#view').innerHTML = hero + `<div class="chips">${['', ...meta.categories].map((c) => `<button data-cat="${esc(c)}" aria-pressed="${c === ''}">${esc(c) || '전체'}</button>`).join('')}</div>`
+    + shelf('이어 보기', ready.filter((v) => pos[v.id])) + shelf('이번 주 인기', pop, 'href="#/popular"') + shelf('새로 올라온 영상', videos.slice(0, 20), 'data-all')
+    + meta.categories.map((c) => shelf(c, videos.filter((v) => v.category === c).slice(0, 20), `data-cat="${esc(c)}"`)).join('');
+  if ($('#heroVid')) $('#heroVid').play().catch(() => { });
+  $$('[data-cat]').forEach((b) => b.onclick = () => { state.cat = b.dataset.cat; home(); window.scrollTo(0, 0); });
+  $$('[data-all]').forEach((b) => b.onclick = () => { state.all = true; home(); window.scrollTo(0, 0); });
+  $$('.rail').forEach((r) => { const list = $('.rowlist', r), upd = () => { $('.arrow.l', r).hidden = list.scrollLeft < 5; $('.arrow.r', r).hidden = list.scrollLeft + list.clientWidth > list.scrollWidth - 5; };
+    $('.arrow.l', r).onclick = () => list.scrollBy({ left: -list.clientWidth * 0.8, behavior: 'smooth' }); $('.arrow.r', r).onclick = () => list.scrollBy({ left: list.clientWidth * 0.8, behavior: 'smooth' }); list.onscroll = upd; upd(); });
+  if ($('#heroLater')) $('#heroLater').onclick = () => { const l = ls.get('later', []), on = l.includes(h.id); ls.set('later', on ? l.filter((x) => x !== h.id) : [h.id, ...l]); $('#heroLater').classList.toggle('on', !on); $('#heroLater').textContent = on ? '＋ 나중에 보기' : '✓ 담김'; };
+  if (videos.some((v) => v.status === 'processing')) poll = setInterval(() => route(true), 4000);
 }
 async function home(kind, tag) {
+  if (!kind && !tag && !state.q && !state.cat && !state.all) return shelves();
   const p = new URLSearchParams();
   if (kind === 'popular') p.set('sort', 'week'); else { if (state.q) p.set('q', state.q); if (state.cat) p.set('cat', state.cat); p.set('sort', state.sort); }
   if (tag) p.set('tag', tag);
-  let { videos } = await api('api/videos?' + p);
-  if (kind === 'popular') videos = videos.filter((v) => v.weekViews > 0).slice(0, 40);
-  const browse = !kind && !tag && !state.q && !state.cat && state.sort === 'new', words = state.q ? state.q.toLowerCase().split(/\s+/).filter(Boolean) : null, view = ls.get('view', 'read');
-  let top = '';
-  if (browse && videos.length) {
-    const ready = videos.filter((v) => v.status === 'ready'), h = [...ready].sort((a, b) => b.weekViews - a.weekViews)[0], pos = ls.get('pos', {}), cont = ready.filter((v) => pos[v.id]).slice(0, 8);
-    if (h) { const later = ls.get('later', []).includes(h.id); videos = videos.filter((v) => v !== h);
-      top += `<section class="spot"><a class="thumb" href="#/v/${h.id}" ${h.thumb ? `style="background-image:url('${thumbUrl(h)}')"` : ''}><span class="play">▶</span><span class="dur">${dur(h.duration)}</span></a>
-        <div class="txt"><span class="kicker">${h.weekViews ? '이번 주 가장 많이 본 영상' : '새로 올라온 영상'}</span><h1><a href="#/v/${h.id}">${esc(h.title)}</a></h1>${h.summary || h.desc ? `<p class="sum">${esc(h.summary || h.desc)}</p>` : ''}
-        ${h.pts.length ? `<div class="flow">${steps(h, 4)}</div>` : ''}
-        <div class="btns"><a class="btn primary" href="#/v/${h.id}">▶ 처음부터</a>${h.coreSec ? `<a class="btn" href="#/v/${h.id}?core=1">⚡ 핵심만 ${dur(h.coreSec)}</a>` : ''}<button id="spotLater" class="btn ${later ? 'on' : ''}" data-id="${h.id}">${later ? '✓ 담김' : '＋ 나중에'}</button></div></div></section>`; }
-    if (cont.length) top += `<div class="cont"><b>이어 보기</b>${cont.map((v) => `<a href="#/v/${v.id}"><span class="ring" style="--p:${Math.round(pos[v.id] / (v.duration || 1) * 100)}"></span>${esc(v.title)}<em>${dur(Math.max(0, v.duration - pos[v.id]))} 남음</em></a>`).join('')}</div>`;
-  }
-  let head;
+  const { videos } = await api('api/videos?' + p);
+  let head = '';
   if (kind === 'popular') head = '<h1 class="page">🔥 인기 영상</h1><p class="sub">최근 7일 동안 많이 본 순서예요.</p>';
   else if (tag) head = `<h1 class="page">#${esc(tag)}</h1>`;
-  else head = `${state.q ? `<h1 class="page">“${esc(state.q)}” <span class="meta">${videos.length}개 찾음 · 제목, 설명, 영상에서 한 말까지 찾았어요</span></h1>` : ''}
-    <div class="chips">${['', ...meta.categories].map((c) => `<button data-cat="${esc(c)}" aria-pressed="${state.cat === c}">${esc(c) || '전체'}</button>`).join('')}<span class="sp"></span>
-    <select id="sort"><option value="new">최신순</option><option value="views">조회순</option><option value="likes">좋아요순</option></select>
-    <span class="seg"><button data-view="read" aria-pressed="${view === 'read'}" title="요약과 핵심을 읽으며 고르기">읽기</button><button data-view="grid" aria-pressed="${view === 'grid'}" title="썸네일만 크게">그림</button></span></div>`;
-  const emptyT = state.q || state.cat || tag ? '찾는 영상이 없어요' : kind === 'popular' ? '아직 본 영상이 없어요' : top ? '' : '아직 영상이 없어요';
-  const body = videos.length ? (view === 'grid' && !words ? `<div class="grid">${videos.map((v) => card(v)).join('')}</div>` : `<div class="flowgrid">${videos.map((v) => rcard(v, words)).join('')}</div>`)
-    : emptyT ? `<div class="empty"><b>${emptyT}</b>${state.q || state.cat || tag || kind ? '' : '아래 ＋ 버튼으로 첫 영상을 올려 보세요.'}</div>` : '';
-  $('#view').innerHTML = top + head + body;
+  else head = `<div class="chips">${['', ...meta.categories].map((c) => `<button data-cat="${esc(c)}" aria-pressed="${state.cat === c}">${esc(c) || '전체'}</button>`).join('')}<span class="sp"></span>
+    <select id="sort"><option value="new">최신순</option><option value="views">조회순</option><option value="likes">좋아요순</option></select></div>${state.q ? `<p class="sub">"${esc(state.q)}" 검색 결과 ${videos.length}개</p>` : ''}`;
+  $('#view').innerHTML = head + grid(kind === 'popular' ? videos.filter((v) => v.weekViews > 0).slice(0, 40) : videos, state.q || state.cat || tag ? '찾는 영상이 없어요' : kind === 'popular' ? '아직 본 영상이 없어요' : '아직 영상이 없어요', state.q || state.cat || tag || kind ? '' : '첫 영상을 올려 보세요.');
   if ($('#sort')) { $('#sort').value = state.sort; $('#sort').onchange = (e) => { state.sort = e.target.value; home(); }; }
-  $$('[data-cat]').forEach((b) => b.onclick = () => { state.cat = b.dataset.cat; if (!b.dataset.cat) { state.q = ''; $('#q').value = ''; } home(); });
-  $$('[data-view]').forEach((b) => b.onclick = () => { ls.set('view', b.dataset.view); home(kind, tag); });
-  if ($('#spotLater')) $('#spotLater').onclick = (e) => { const id = e.target.dataset.id, l = ls.get('later', []), on = l.includes(id); ls.set('later', on ? l.filter((x) => x !== id) : [id, ...l]); e.target.classList.toggle('on', !on); e.target.textContent = on ? '＋ 나중에' : '✓ 담김'; };
+  $$('[data-cat]').forEach((b) => b.onclick = () => { state.cat = b.dataset.cat; if (!b.dataset.cat) { state.all = false; state.q = ''; $('#q').value = ''; } home(); });
   if (videos.some((v) => v.status === 'processing')) poll = setInterval(() => route(true), 4000);
 }
 
@@ -204,7 +196,7 @@ async function watch(id, params) {
       return;
     }
     if (!has && tr && tab === 'core' && !busy && !ins.summary) tab = 'script';
-    const core = (ins.summary ? `<p class="sum">${esc(ins.summary)}</p>` : '') + (has ? ins.points.map((p, i) => `<a class="pt" data-s="${p.s}"><i>${i + 1}</i><span class="at">${dur(p.s)}</span>${esc(p.t) || '핵심 구간'} <span class="meta">${Math.max(1, Math.round(p.e - p.s))}초</span></a>`).join('')
+    const core = (ins.summary ? `<p class="sum">${esc(ins.summary)}</p>` : '') + (has ? ins.points.map((p) => `<a class="pt" data-s="${p.s}"><span class="at">${dur(p.s)}</span>${esc(p.t) || '핵심 구간'} <span class="meta">${Math.max(1, Math.round(p.e - p.s))}초</span></a>`).join('')
       : busy ? '' : `<p class="meta">${esc(ins.note) || '아직 핵심 구간이 없어요.'}</p>`) + (has && ins.note ? `<p class="meta">${esc(ins.note)}</p>` : '');
     const script = `<input id="trQ" placeholder="대본에서 찾기" style="margin-bottom:6px">` + ins.transcript.map((x, i) => `<a class="ln ${inPt((x.s + x.e) / 2) >= 0 ? 'core' : ''}" data-i="${i}" data-s="${x.s}"><span class="at">${dur(x.s)}</span>${esc(x.t)}</a>`).join('');
     box.innerHTML = `<header><b>⚡ 핵심 내용</b>${tr ? `<button class="small ${tab === 'core' ? 'on' : ''}" data-tab="core">핵심</button><button class="small ${tab === 'script' ? 'on' : ''}" data-tab="script">전체 대본</button>` : ''}</header>

diff --git a/module/web/index.html b/module/web/index.html
@@ -3,26 +3,26 @@
 <head>
 <meta charset="utf-8">
 <meta name="viewport" content="width=device-width, initial-scale=1">
-<title>순수튜브</title>
+<title>순수TV</title>
 <link rel="icon" href="icon.svg">
 <link rel="stylesheet" href="style.css">
 </head>
 <body>
 <header class="top">
-  <a class="logo" href="#/"><span class="mark">▶</span> 순수튜브</a>
-  <form id="searchForm" class="search"><span>🔍</span><input id="q" placeholder="궁금한 걸 적어 보세요. 영상에서 한 말까지 찾아요" autocomplete="off"><button class="primary">찾기</button></form>
+  <a class="logo" href="#/"><span class="mark">▶</span> 순수TV</a>
+  <nav id="side" class="nav">
+    <a href="#/" data-nav="home">홈</a>
+    <a href="#/popular" data-nav="popular">인기</a>
+    <a href="#/playlists" data-nav="playlists">재생 목록</a>
+    <a href="#/history" data-nav="history">시청 기록</a>
+    <a href="#/later" data-nav="later">나중에 볼 영상</a>
+    <a href="#/admin" data-nav="admin">관리</a>
+  </nav>
+  <form id="searchForm" class="search"><input id="q" placeholder="제목이나 말한 내용으로 검색" autocomplete="off"><button title="찾기">🔍</button></form>
+  <button id="uploadBtn" class="primary">＋ 영상 올리기</button>
 </header>
 <main id="view"></main>
 <footer class="foot"><span id="disk"></span></footer>
-<nav id="side" class="nav dock">
-  <a href="#/" data-nav="home"><i>🏠</i>홈</a>
-  <a href="#/popular" data-nav="popular"><i>🔥</i>인기</a>
-  <a href="#/playlists" data-nav="playlists"><i>📚</i>목록</a>
-  <button id="uploadBtn" class="primary" title="영상 올리기">＋</button>
-  <a href="#/history" data-nav="history"><i>🕘</i>기록</a>
-  <a href="#/later" data-nav="later"><i>⏰</i>나중에</a>
-  <a href="#/admin" data-nav="admin"><i>⚙</i>관리</a>
-</nav>
 
 <dialog id="uploadDlg">
   <form id="uploadForm" method="dialog">

diff --git a/module/tools/stt.py b/module/tools/stt.py
@@ -1,4 +1,4 @@
-"""순수튜브 음성 인식: 소리 파일을 글(시간 포함)로 바꾼다. faster-whisper 를 쓴다(무료, 서버 안에서만 동작).
+"""순수TV 음성 인식: 소리 파일을 글(시간 포함)로 바꾼다. faster-whisper 를 쓴다(무료, 서버 안에서만 동작).
 
   python stt.py --check            설치됐는지 확인(됐으면 종료 코드 0)
   python stt.py in.wav out.json    out.json = {"segments":[{"start":0.0,"end":2.1,"text":"..."}]}

diff --git a/README.md b/README.md
@@ -1,4 +1,4 @@
-# 순수튜브
+# 순수TV
 
 사내 영상 플랫폼. 유튜브의 기본 틀(올리기, 재생, 검색, 댓글, 재생 목록, 시청 기록, 관리 화면 등)을 상수iN 모듈로 만든 것.
 

diff --git a/docs/PLAN.md b/docs/PLAN.md
@@ -1,4 +1,4 @@
-# 순수튜브 계획
+# 순수TV 계획
 
 원칙: 유튜브의 기본 틀을 먼저 완성하고, 기능은 협의해서 하나씩 더한다.
 
